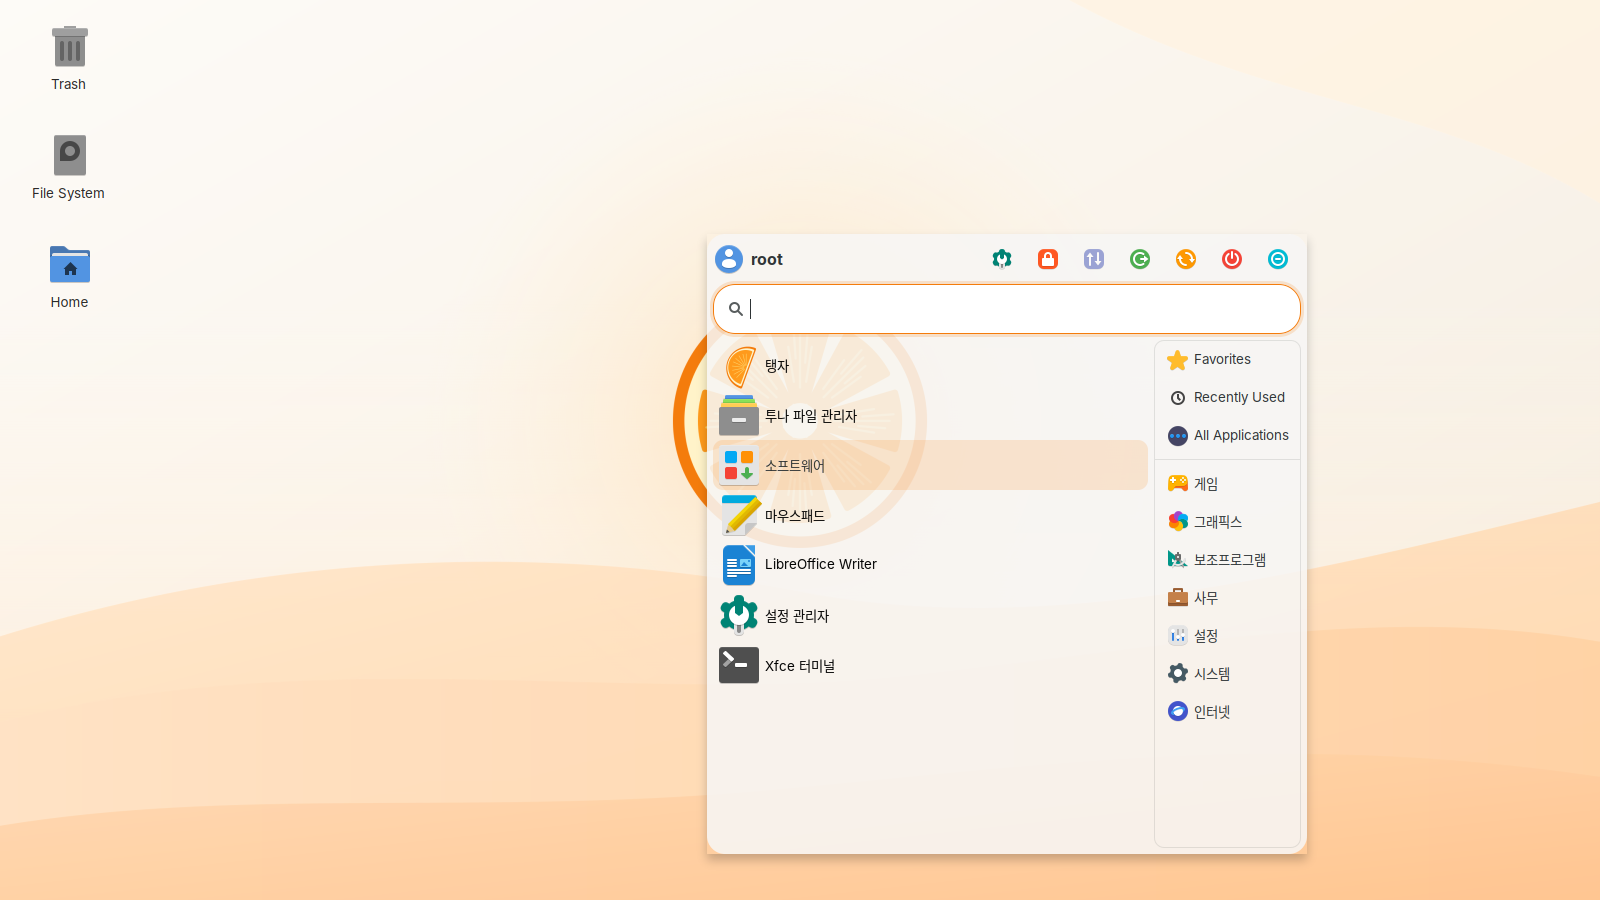
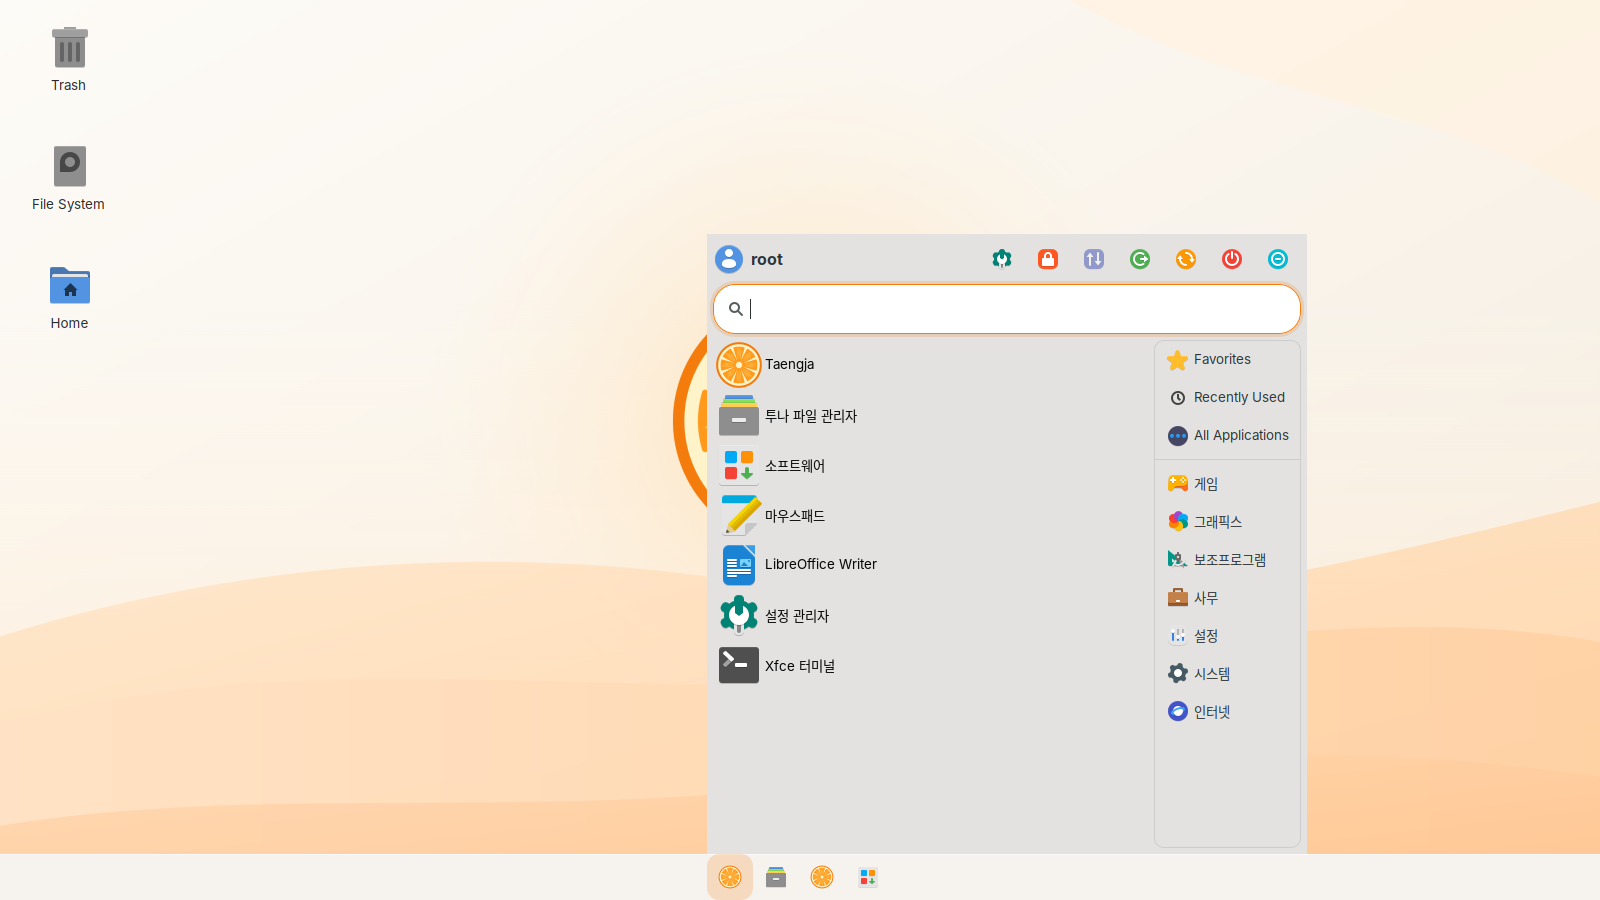
빠른 설정·모든 창을 직사각형으로 통일, Taengja 영문 표기·귤 단면 아이콘
창 모서리 문제의 근본 원인을 잡았다: 빠른 설정(kiyu-control)·시작 메뉴·알림 창은
skel gtk.css 에서 border-radius 로 둥글리고 있었는데, GPU 없는 기기의 기본 백엔드인
xrender 에서는 둥근 모서리 바깥이 검은 삼각형으로 남고 picom 의 사각 그림자까지
삐져나와 뾰족하게 보였다. RGBA 투명 여백도 xrender 에선 검게 렌더된다.

- 모든 창을 직사각형으로 통일:
  - skel gtk.css: #kiyu-control / #whiskermenu-window / #XfceNotifyWindow 의 border-radius 를 0 으로.
  - picom.conf·compositor: corner-radius 를 glx·xrender 양쪽 모두 0 으로(창은 사각, 그림자는 picom 이 딱 맞게).
  - kiyu-control: 투명 RGBA·CSS 둥근 모서리 시도를 걷어내고 불투명 사각 창으로 되돌림.
    DIALOG 힌트 제거(GTK 가 대화상자에 CSD 둥근 모서리를 입혀 검은 모서리가 생기던 원인).
  - 시작 메뉴 불투명(menu-opacity 100): 반투명일 때 배경 로고가 비쳐 지저분하게 보이던 문제 제거.
- Taengja: UI·아이콘에서 한글 "탱자" 대신 영문 "Taengja" 사용
  (APP_NAME, 메뉴 "Taengja 정보", .desktop Name[ko] 제거, 홈페이지 표기).
- 브라우저 아이콘: '귤 한 알(잎 달린)' 아이콘을 폐기하고 OS 와 같은 귤 단면(반갈라진 귤) 로고로 전면 교체.
- 스크린샷(01·02·04) 재촬영.

Claude-Session: https://claude.ai/code/session_01DVt4fBqjhd9ckGmgeBjH8k

diff --git a/base/fedora/root/etc/skel/.config/gtk-3.0/gtk.css b/base/fedora/root/etc/skel/.config/gtk-3.0/gtk.css
@@ -78,8 +78,9 @@ XfdesktopIconView.view:selected, .XfdesktopIconView.view:selected, XfdesktopIcon
 .xfce4-panel #whiskermenu-button { border-radius: 12px; }
 .xfce4-panel .docklike-button, .xfce4-panel #docklike button { padding: 4px 6px; }
 
-/* 시작 메뉴 */
-#whiskermenu-window, #whiskermenu-window.background { border-radius: 18px; border: 1px solid alpha(@theme_base_color, 0.7); background-color: @kiyu_glass; }
+/* 시작 메뉴 — 모든 창은 직사각형(border-radius 0): 둥근 모서리는 불투명 창에서 모서리 밖이
+   검게 남고 picom 사각 그림자가 삐져나와 뾰족해 보이므로 쓰지 않는다. */
+#whiskermenu-window, #whiskermenu-window.background { border-radius: 0; border: 1px solid alpha(@theme_base_color, 0.7); background-color: @kiyu_glass; }
 #whiskermenu-window entry { border-radius: 22px; padding: 8px 14px; }
 #whiskermenu-window treeview.view, #whiskermenu-window .view, #whiskermenu-window iconview { background-color: transparent; }
 #whiskermenu-window treeview.view:selected, #whiskermenu-window .view:selected, #whiskermenu-window iconview:selected { background-color: alpha(@kiyu_accent, 0.16); color: @kiyu_text; border-radius: 10px; }
@@ -87,7 +88,7 @@ XfdesktopIconView.view:selected, .XfdesktopIconView.view:selected, XfdesktopIcon
 #whiskermenu-window button { padding: 6px 10px; }
 
 /* 빠른 설정 (kiyu-control) */
-#kiyu-control, #kiyu-control.background { border-radius: 18px; border: 1px solid alpha(@theme_base_color, 0.7); background-color: @kiyu_glass; }
+#kiyu-control, #kiyu-control.background { border-radius: 0; border: 1px solid alpha(@theme_base_color, 0.7); background-color: @kiyu_glass; }
 
 /* 알림 */
-#XfceNotifyWindow { border-radius: 14px; border: 1px solid alpha(@theme_base_color, 0.7); background-color: @kiyu_glass; color: @kiyu_text; }
+#XfceNotifyWindow { border-radius: 0; border: 1px solid alpha(@theme_base_color, 0.7); background-color: @kiyu_glass; color: @kiyu_text; }

diff --git a/web/index.html b/web/index.html
@@ -288,7 +288,7 @@ footer{border-top:1px solid var(--line); padding:44px 0; color:var(--muted); fon
     <div>
       <p class="eyebrow">Taengja browser</p>
       <h2 style="font-size:clamp(28px,4.4vw,44px);font-weight:600">Our own browser, built for kiyu — private, light, no Chrome required.</h2>
-      <p style="color:var(--muted);margin-top:16px">Taengja (탱자) is a WebKit browser that starts fast and respects you: trackers and cross-site cookies blocked, permissions denied by default, and a sandbox around every page. Tabs, bookmarks, history with address-bar autocomplete, downloads, and print — the basics done right.</p>
+      <p style="color:var(--muted);margin-top:16px">Taengja is a WebKit browser that starts fast and respects you: trackers and cross-site cookies blocked, permissions denied by default, and a sandbox around every page. Tabs, bookmarks, history with address-bar autocomplete, downloads, and print — the basics done right.</p>
       <div class="chips">
         <span class="chip">Tracker &amp; ad blocking</span>
         <span class="chip">Sandboxed pages</span>
@@ -297,7 +297,7 @@ footer{border-top:1px solid var(--line); padding:44px 0; color:var(--muted); fon
         <span class="chip">Deny-by-default permissions</span>
       </div>
     </div>
-    <div class="frame"><div class="bar"><i></i><i></i><i></i><span>탱자 · new tab</span></div><img src="screenshots/01-desktop.png" alt="Taengja browser" loading="lazy" width="1600" height="900" style="object-fit:cover;max-height:340px"></div>
+    <div class="frame"><div class="bar"><i></i><i></i><i></i><span>Taengja · new tab</span></div><img src="screenshots/01-desktop.png" alt="Taengja browser" loading="lazy" width="1600" height="900" style="object-fit:cover;max-height:340px"></div>
   </div>
 </section>
 

diff --git a/apps/kiyu-control/kiyu-control.py b/apps/kiyu-control/kiyu-control.py
@@ -194,7 +194,6 @@ def effects_set(on):
 
 # ---------- UI ----------
 CSS = b"""
-#kiyu-control { border-radius: 18px; }
 .kc-tile { border-radius: 14px; padding: 10px 12px; min-height: 44px; }
 .kc-tile.on { background-color: @kiyu_accent; color: #ffffff; border-color: @kiyu_accent_dark; }
 .kc-tile.on label { color: #ffffff; }
@@ -243,21 +242,17 @@ class Tile(Gtk.Button):
 class Control(Gtk.Window):
     def __init__(self):
         super().__init__(title="빠른 설정", type=Gtk.WindowType.TOPLEVEL)
-        # 안정적인 WM_CLASS: picom 이 이 창의 사각 그림자를 끄도록(shadow-exclude) 식별자를 고정한다.
         self.set_wmclass("kiyu-control", "kiyu-control")
         self.set_name("kiyu-control")
-        self.set_type_hint(Gdk.WindowTypeHint.DIALOG)
+        # DIALOG 힌트는 쓰지 않는다: GTK 가 대화상자 창에 CSD 둥근 모서리를 입히는데,
+        # 불투명·무장식 창에서는 그 둥근 모서리 바깥이 검은 삼각형으로 남는다. 힌트 없이 두면
+        # 다른 모든 창처럼 직사각형이 되고 picom 이 사각 그림자를 딱 맞게 그려 준다.
         self.set_decorated(False)
         self.set_skip_taskbar_hint(True)
         self.set_skip_pager_hint(True)
         self.set_keep_above(True)
         self.set_resizable(False)
         self.set_default_size(340, -1)
-        # RGBA 비주얼 + 투명 배경: 둥근 모서리 바깥이 검게 그려지지 않고 바탕화면이 비쳐 보이게 한다.
-        screen = self.get_screen()
-        vis = screen.get_rgba_visual()
-        if vis is not None:
-            self.set_visual(vis)
         self.connect("focus-out-event", self._on_focus_out)
         self.connect("key-press-event", self._key)
         self.connect("delete-event", lambda *_: self.quit())

diff --git a/apps/taengja/taengja.py b/apps/taengja/taengja.py
@@ -19,7 +19,7 @@ gi.require_version("WebKit2", "4.1")
 from gi.repository import Gdk, Gio, GLib, Gtk, WebKit2  # noqa: E402
 
 APP_ID = "org.kiyu.Taengja"
-APP_NAME = "탱자"
+APP_NAME = "Taengja"
 VERSION = "0.1.0"
 CONFIG_DIR = os.path.join(GLib.get_user_config_dir(), "taengja")
 DATA_DIR = os.path.join(GLib.get_user_data_dir(), "taengja")
@@ -491,7 +491,7 @@ class BrowserWindow(Gtk.ApplicationWindow):
         box.pack_start(Gtk.Separator(), False, False, 4)
 
         for label, action in (("다운로드 폴더 열기", self._open_downloads), ("인쇄...", self.print_page),
-                              ("방문 기록 지우기", self._clear_history), ("탱자 정보", self._about)):
+                              ("방문 기록 지우기", self._clear_history), ("Taengja 정보", self._about)):
             b = Gtk.ModelButton(text=label)
             b.connect("clicked", lambda _b, a=action: (pop.popdown(), a()))
             box.pack_start(b, False, False, 0)

diff --git a/docs/browser.md b/docs/browser.md
@@ -1,6 +1,6 @@
-# 탱자 — kiyu 의 브라우저, 검토와 설계
+# Taengja — kiyu 의 브라우저, 검토와 설계
 
-이름 **탱자**는 귤(kiyu)과 형제인 과일에서 왔습니다. 로고는 귤 한 알(꼭지와 잎)이고, OS 로고인 귤 단면과 짝을 이룹니다.
+이름 **Taengja**(탱자)는 귤(kiyu)과 형제인 과일에서 왔습니다. UI·아이콘에는 한글 "탱자" 대신 영문 **Taengja** 를 씁니다. 아이콘은 OS 와 동일한 귤 단면(반갈라진 귤) 로고를 공유합니다 — 예전의 '귤 한 알(잎 달린)' 아이콘은 더 이상 쓰지 않습니다.
 
 ## 기능 (v0.2)
 
